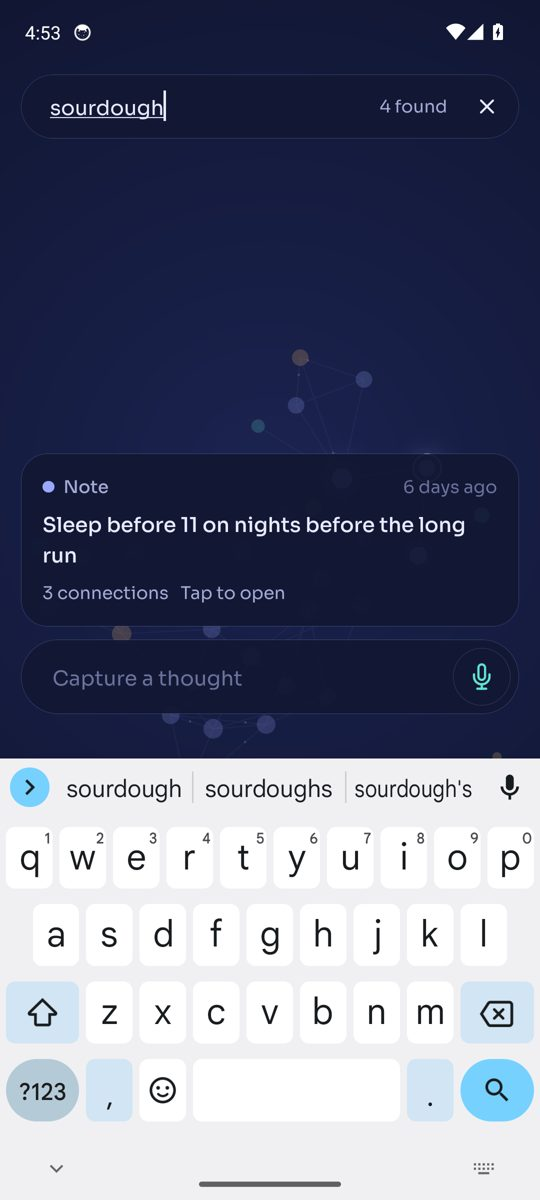
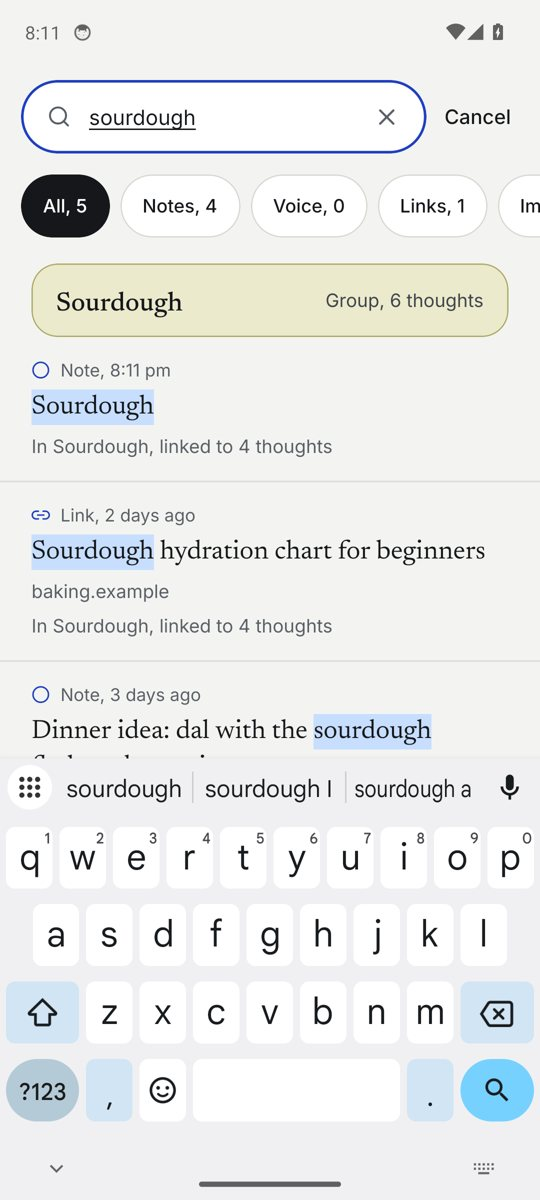
Add v2 screenshots and record what the emulator run confirmed
Claude-Session: https://claude.ai/code/session_01RqrPe39gNuUagwTNJssm7J

diff --git a/docs/STATUS.md b/docs/STATUS.md
@@ -9,9 +9,22 @@ _Last updated: 16 Nov 2026, v2 redesign on the `redesign-v2` branch. Update this
 
 ## What works in v2
 
-Verified by the CI emulator run on Android 14 (screenshots on the `smoke-shots-redesign-v2` branch):
+Verified by the CI emulator run on Android 14:
 
-- See the pull request for the list confirmed by the latest run.
+- Launch, empty state, loading sample thoughts
+- Today: stream sectioned by day, group pills, placement line on every thought
+- Typing a thought in the capture bar saves it, links it and places it in a group
+- Thought screen: text, group pill, linked thoughts with reasons
+- Map: six named groups laid out without overlapping, ungrouped count, latest thought
+- Group screen with nearby groups
+- Search: counts per kind, a matching group first, matches highlighted
+- Note editor: typing and word count (saving from it was not exercised)
+- Settings renders; the Black override switches the theme
+- Sharing text from another app: saved, placed, sheet shown, app closes
+- The app follows the phone into dark and back to light, including when the switch happens while Engram is closed
+- No crashes in the log across the run
+
+Screenshots are in [`screenshots/`](screenshots/).
 
 Verified in Node (`npm run check`): migrations, full-text search, cascade deletes, the linker, link explanations, grouping and group naming (including that results do not depend on input order), day labels and search highlighting.
 

diff --git a/README.md b/README.md
@@ -4,6 +4,13 @@ A second brain that lives entirely on your phone. Write, speak or share a though
 
 <img src="assets/brand/wordmark.png" width="300" alt="engram.">
 
+<p>
+  <img src="docs/screenshots/today.jpg" width="190" alt="Today: a stream of thoughts">
+  <img src="docs/screenshots/map.jpg" width="190" alt="Map of named groups">
+  <img src="docs/screenshots/thought.jpg" width="190" alt="A thought and what it links to">
+  <img src="docs/screenshots/today-black.jpg" width="190" alt="Today in the black theme">
+</p>
+
 ## What it does
 
 - **Today.** A calm, readable stream of what you captured, each thought showing where it landed.
